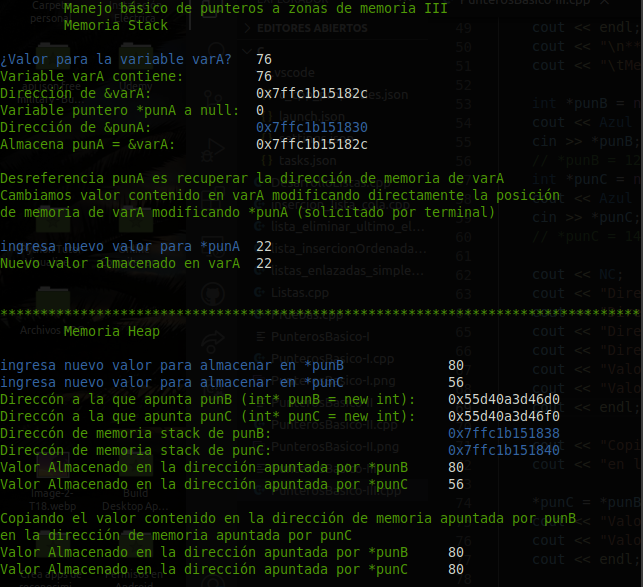
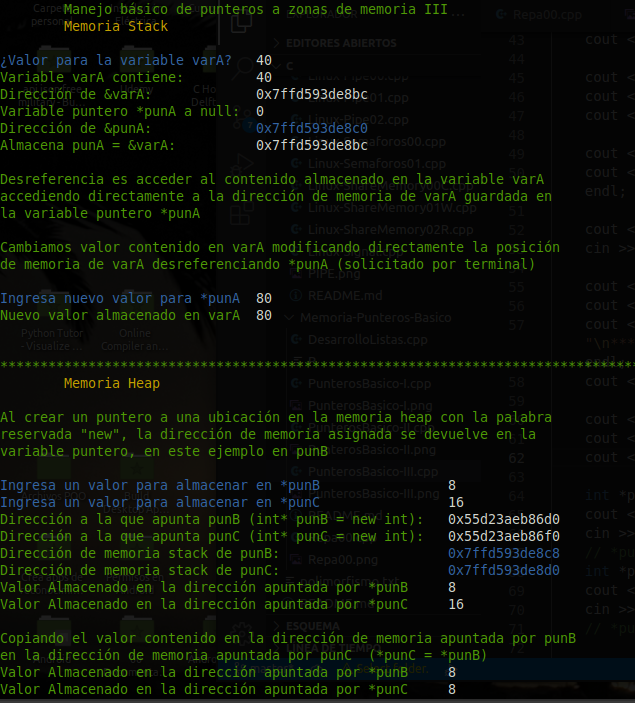
Actualizaciones

Changed region(s): [[0.0, 0.0, 1.0, 1.0], [0.0, 0.0, 0.8976, 0.46]]

diff --git a/PunterosBasico-III.cpp b/PunterosBasico-III.cpp
@@ -27,7 +27,7 @@ int main()
     system("clear");
 
     cout << "\tManejo básico de punteros a zonas de memoria III" << endl;
-    cout << "\tMemoria Stack" << endl << endl;
+    cout << "\t\e[0;33mMemoria Stack\e[0m" << endl << endl;
     int *punA;
     int varA;
 
@@ -42,9 +42,12 @@ int main()
     punA = &varA; // Asignar puntero a la dirección del objeto
     cout << "Almacena punA = &varA: \t\t" << Blanco << punA << NC << endl << endl;
 
-    cout << "Desreferencia punA es recuperar la dirección de memoria de varA" << endl;
+    cout << "Desreferencia es acceder al contenido almacenado en la variable varA\n";
+    cout << "accediendo directamente a la dirección de memoria de varA guardada en\n";
+    cout << "la variable puntero *punA\n\n";
+
     cout << "Cambiamos valor contenido en varA modificando directamente la posición" << endl;
-    cout << "de memoria de varA modificando *punA (solicitado por terminal)" << endl << endl;
+    cout << "de memoria de varA desreferenciando *punA (solicitado por terminal)" << endl << endl;
 
     cout << Azul << "Ingresa nuevo valor para *punA\t" << Blanco;
     cin >> *punA;
@@ -52,9 +55,13 @@ int main()
     cout << NC << "Nuevo valor almacenado en varA \t" << Blanco << varA << NC << endl;
     cout << endl;
     cout << "\n********************************************************************************" << endl;
-    cout << "\tMemoria Heap" << endl << endl;
+    cout << "\t\e[0;33mMemoria Heap\e[0m" << endl << endl;
 
-    int *punB = new int;
+    cout << "Al crear un puntero a una ubicación en la memoria heap con la palabra\n";
+    cout << "reservada \"new\", la dirección de memoria asignada se devuelve en la\n";
+    cout << "variable puntero, en este ejemplo en punB\n\n";
+
+    int *punB = new int; 
     cout << Azul << "Ingresa un valor para almacenar en *punB\t\t" << Blanco;
     cin >> *punB;
     // *punB = 12;

diff --git a/Repa00.cpp b/Repa00.cpp
@@ -1,0 +1,47 @@
+/*
+    José Juan Ojeda Granados, 10-01-2022
+    Repaso punteros memoria
+
+    Manejo básico de punteros a zonas de memoria
+     * Para declarar variable apuntadora.
+     * Para desreferenciar, acceder directamente al contenido de una ubicación de menoria 
+       almacenada en una variable puntero.
+     & Para mostrar la dirección de memoria de cualquier variable.
+
+*/
+#include <iostream>
+
+
+int main(int argc, char *argv[])
+{
+    system("clear");
+
+    printf("\t\e[0;33mMemoria Stack\e[0m\n");
+    printf("\e[0;34mSe crea la variable puntero *punA y se guarda a null\e[0m\n");
+    int *punA = nullptr;
+    printf("*punA\t%p\n", punA);
+    printf("\e[0;34mSe crea la variable varA y se almacena el valor 20\e[0m\n");
+    int varA = 20;
+    printf("varA\t%d\n", varA);
+    printf("\e[0;34mSe almacena en punA la dirección de memoria que el sistema asigno a varA\e[0m\n");
+    punA = &varA;
+    printf("\e[0;34mMostramos la dirección de memoria de varA y su contenido\e[0m\n");
+    printf("punA\t%p\n", punA);
+    printf("*punA\t%d\n", *punA);
+
+    printf("\n\t\e[0;33mMemoria Heap\e[0m\n");
+    printf("\e[0;34mSe crea *punB y se devuelve la dirección de memoria heap asignada en él\e[0m\n");
+    int *punB = new int;
+    printf("*punB\t%p\n", punB);
+    printf("\e[0;34mPor desreferencia se almacena en esa dirección de memoria el valor 40\e[0m\n");
+    *punB = 40;
+    printf("\e[0;34mMostramos nuevamente la dirección de memoria y su contenido\e[0m\n");
+    printf("punB\t%p\n", punB);
+    printf("*punB\t%d\n", *punB);
+
+    printf("\e[0;34mSe borra el contenido del puntero y el puntero con delete\e[0m\n\n");
+    punB = nullptr;
+    delete punB;
+
+    return 0;
+}

diff --git a/README.md b/README.md
@@ -4,8 +4,13 @@
 
 04-12-2021
 
-Practicas básica I, II y III de manejo de punteros a memoria stack y heap
+PunterosBasico-[I, II, III].cpp: Manejo de punteros a memoria stack y heap
 
 06-12-2021
 
-Practica avanzada de manejo de listas, punteros a memoria stack y heap
+PunterosBasico-I.cpp: Practica avanzada de manejo de listas, punteros a memoria stack y heap
+
+10-01-2022
+
+Repa00.cpp: Repaso básico punteros
+
